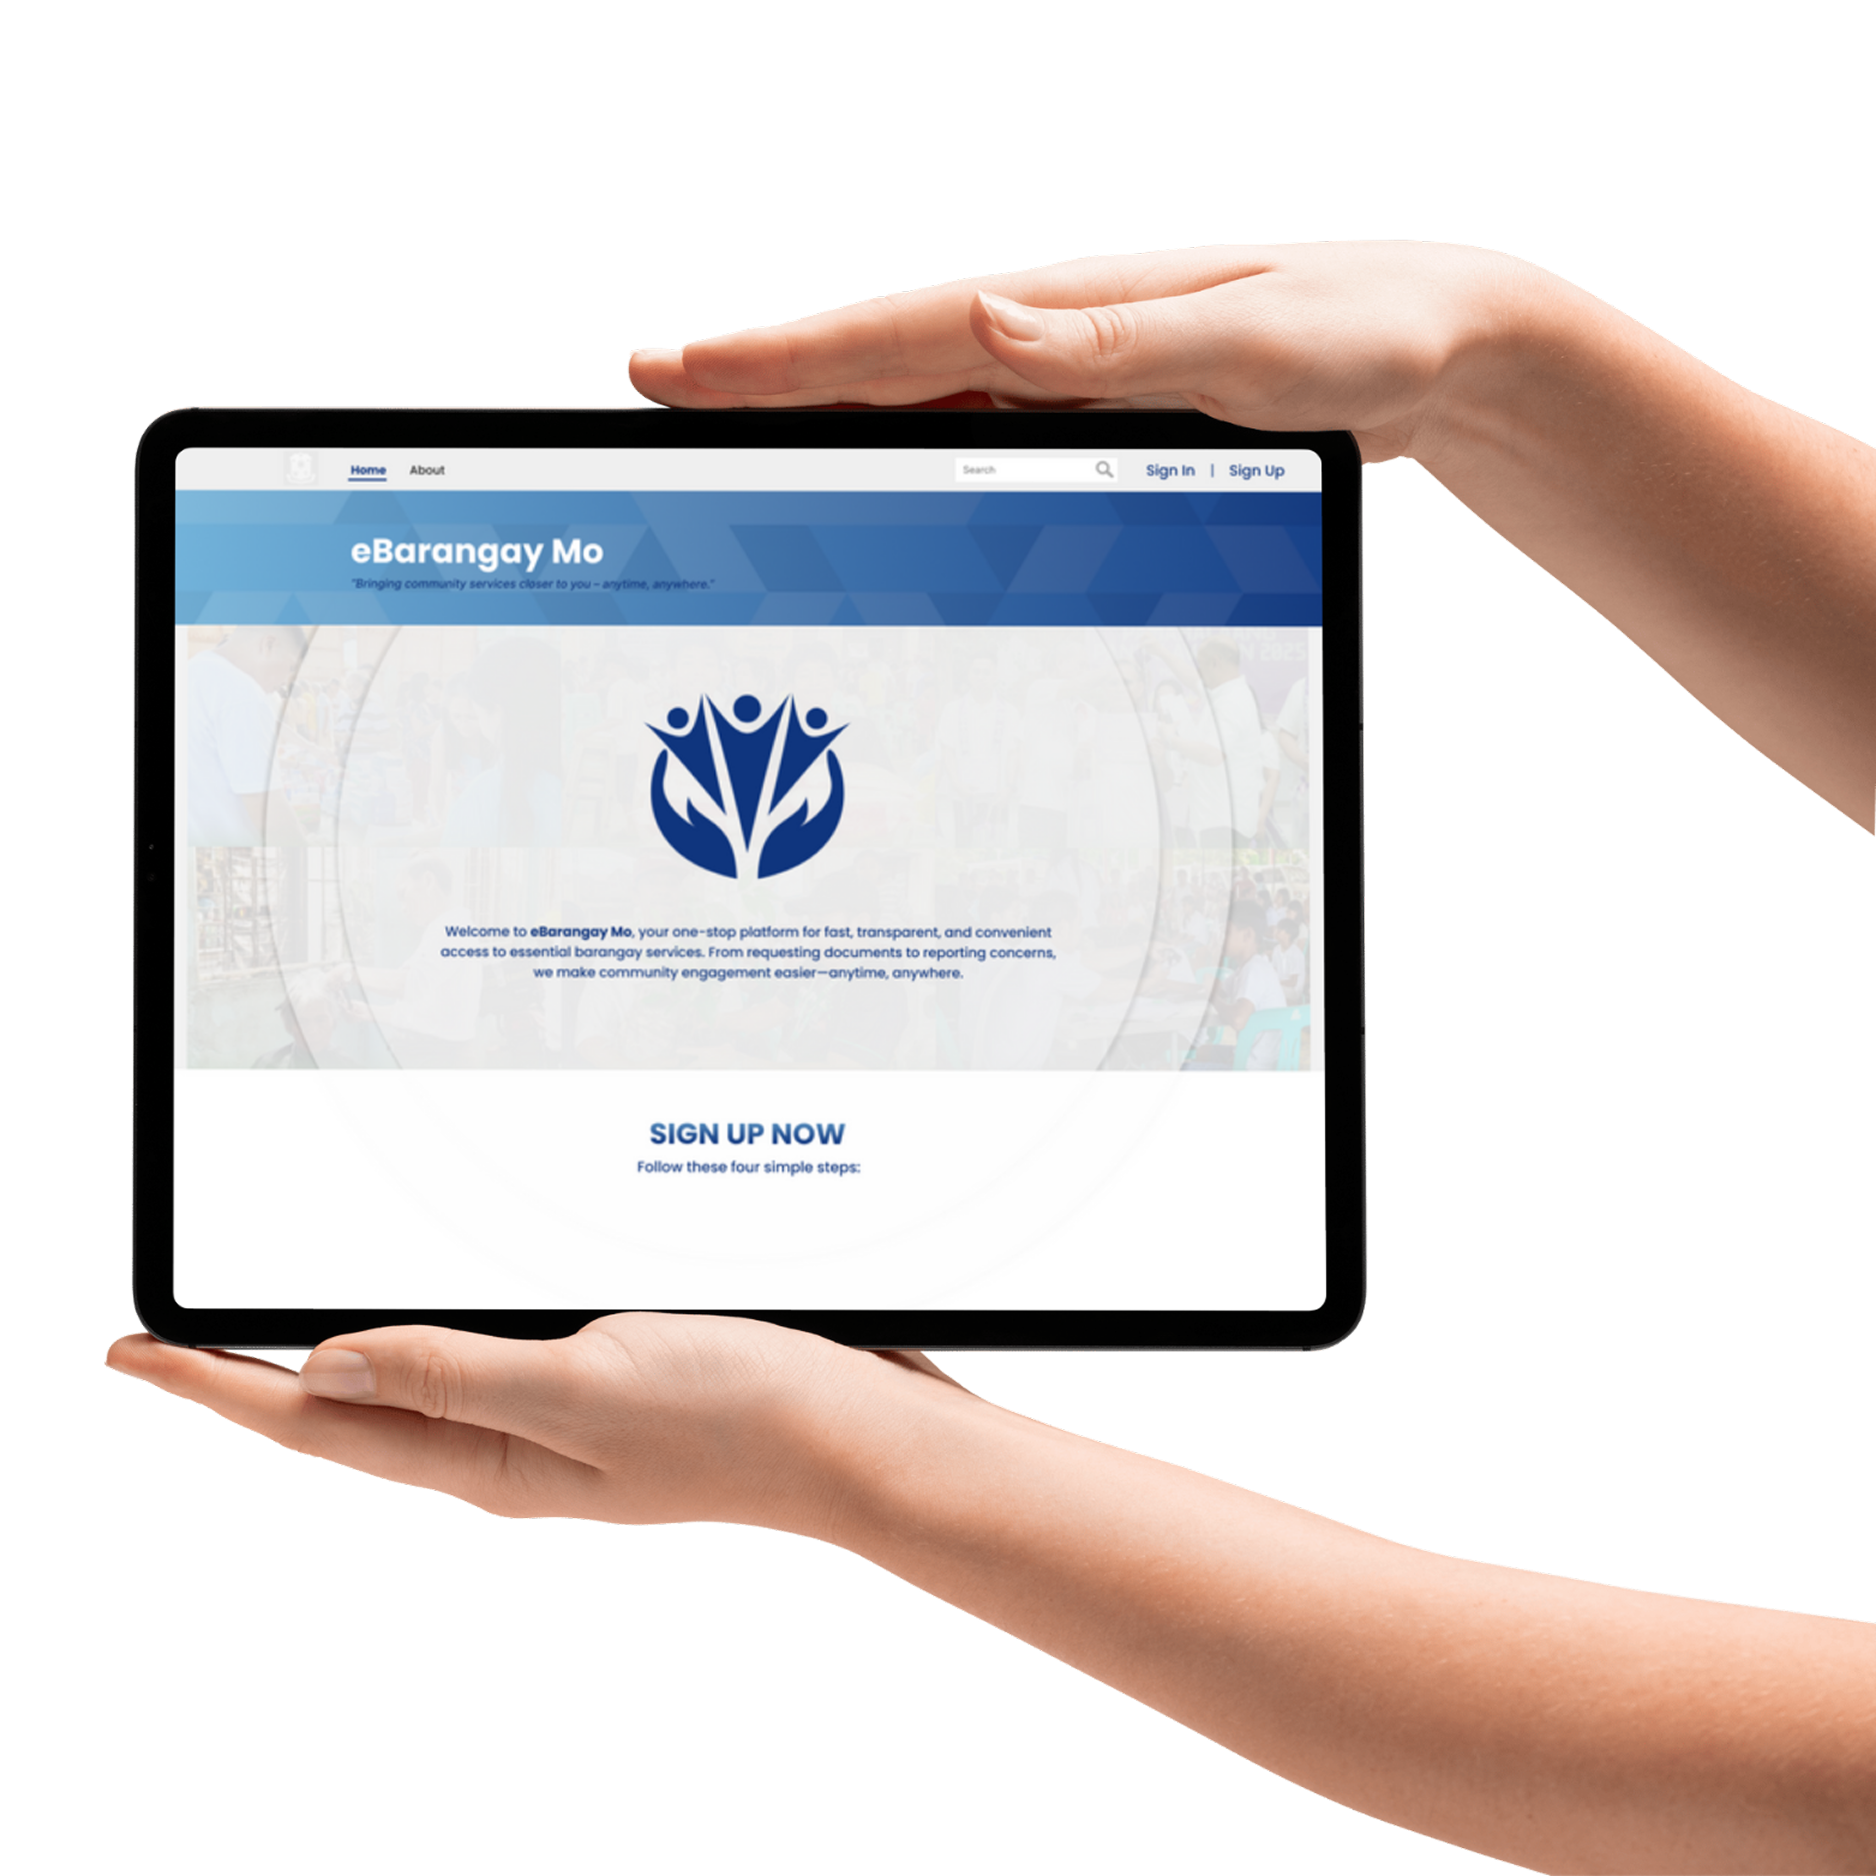
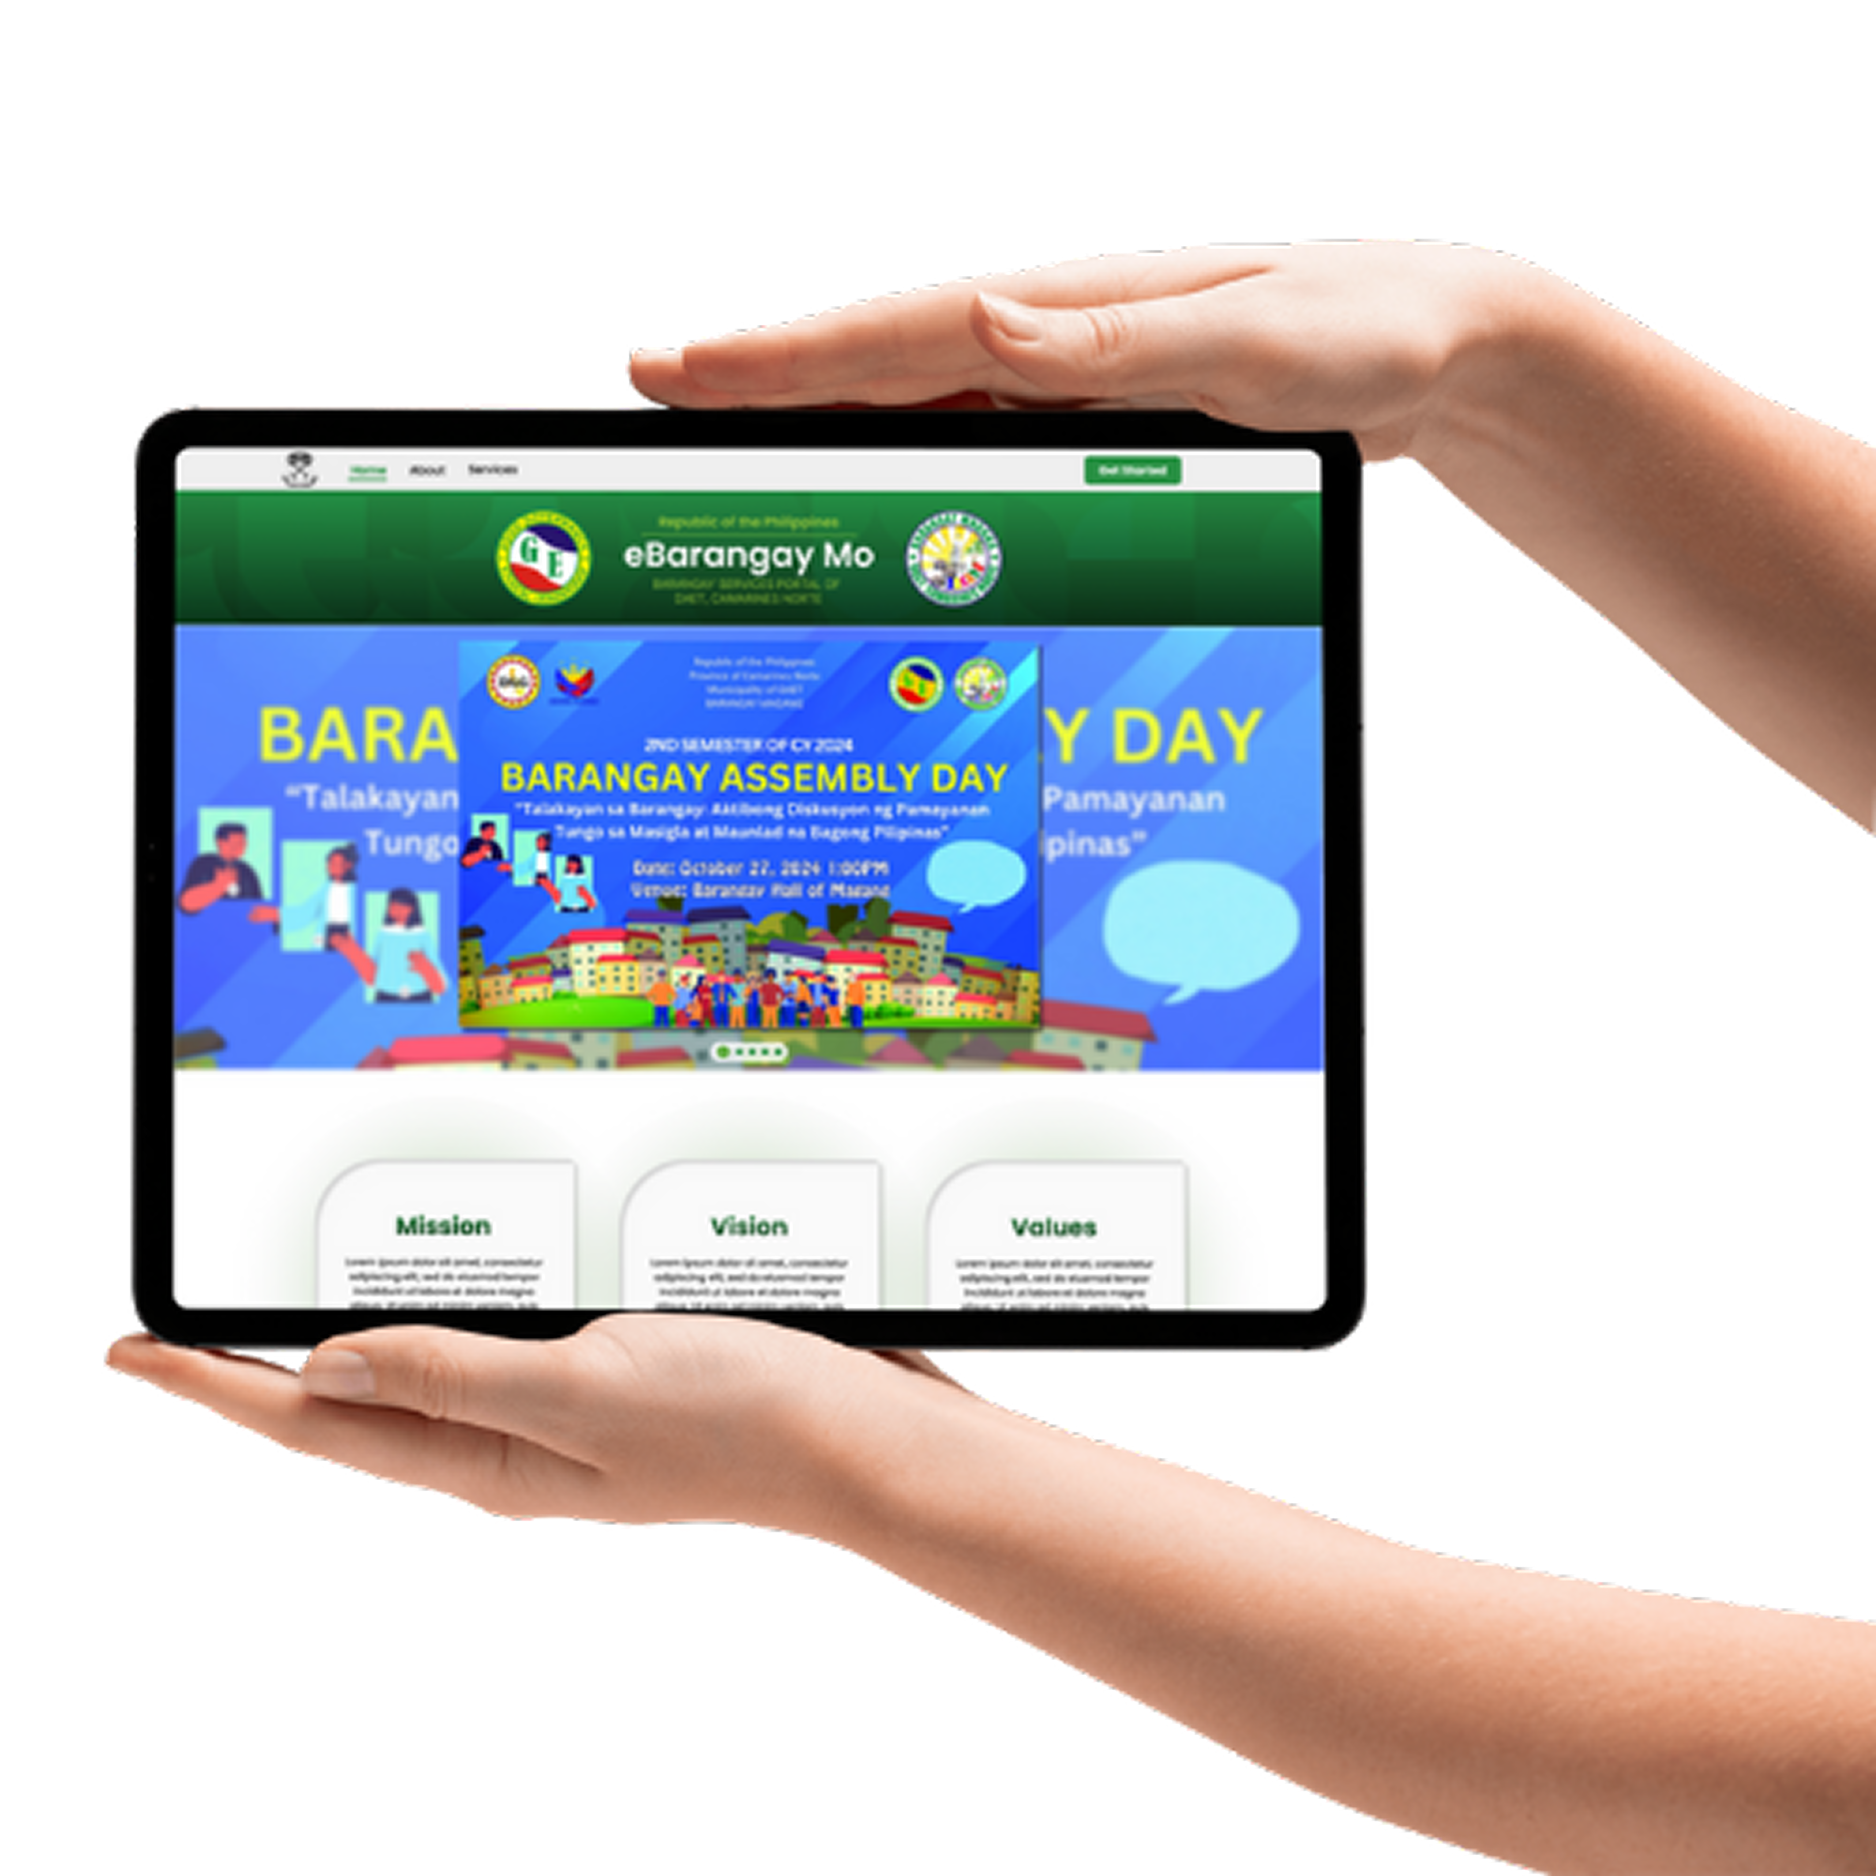
And our time on Earth was through

diff --git a/styles.css b/styles.css
@@ -71,11 +71,12 @@ body {
 
 .gradient-text {
     background: linear-gradient(to bottom, #2A9245, #0D2C15);
+    -webkit-background-clip: text;
     background-clip: text;
-    -webkit-text-fill-color: transparent;
+
 }
 
-.about-container {
+.mission-vision-values {
     background: #FFFFFF;
     padding: 50px 20px;
     border-radius: 12px;
@@ -252,6 +253,14 @@ body {
     padding: 10px;
 }
 
+.agency-footer h5 {
+    font-size: 15px;    
+}
+
+.quick-link {
+    font-size: 15px;    
+}
+
 .agency-footer .icon {
     font-size: 25px;
 }
@@ -277,3 +286,4 @@ body {
   background-color: #2A9245 ; 
   color: white ; 
 }
+

diff --git a/sidebar.css b/sidebar.css
@@ -1,0 +1,17 @@
+.sidebar {
+    height: 100vh;
+    background-color: #0D4019;
+    color: white;
+}
+.sidebar a {
+    color: white;
+    text-decoration: none;
+    padding: 10px 15px;
+    display: block;
+}
+.sidebar a:hover {
+    background-color: #116530;
+}
+.sidebar .active {
+    background-color: #116530;
+}

diff --git a/js/carousel.js b/js/carousel.js
@@ -15,3 +15,9 @@ document.addEventListener("DOMContentLoaded", function () {
     // Set the initial background
     updateBlurredBackground();
 });
+
+[...document.querySelectorAll('*')].forEach(el => {
+    if (el.scrollWidth > document.documentElement.clientWidth) {
+        console.log(el);
+    }
+});

diff --git a/signup.css b/signup.css
@@ -1,8 +1,8 @@
 /* Background Image */
-body {
+/* body {
     background: url('images/bg_nothover.png') no-repeat center center fixed;
     background-size: cover;
-}
+} */
 
 /* Form Container */
 .form-container {

diff --git a/signinup.css b/signinup.css
@@ -1,8 +1,8 @@
 /* Full height layout */
-html, body {
+/* html, body {
     height: 100%;
     margin: 0;
-}
+} */
 
 /* Split Container */
 .split-container {

diff --git a/index.php b/index.php
@@ -67,9 +67,9 @@ include 'includes/header.php';
     </div>
 </div>
 
-<!-- ABOUT US SECTION -->
+<!-- MISSION VISION VALUES SECTION -->
 <div class="container-fluid px-0">
-    <div class="about-container text-center">
+    <div class="mission-vision-values text-center">
         <div class="row g-4 mt-4 justify-content-center text-center">
             <div class="col-lg-3 col-md-5 col-sm-6 d-flex justify-content-center">
                 <div class="card-custom p-4">
@@ -192,7 +192,7 @@ include 'includes/header.php';
 </div>
 
 <!-- ABOUT SECTION -->
-<div class="container-fluid px-5 py-5">
+<div class="container-fluid px-0">
     <div class="row align-items-center">
         <!-- About Text -->
         <div class="col-md-6">
@@ -210,8 +210,7 @@ include 'includes/header.php';
         <!-- About Image -->
         <div class="col-md-6 text-center">
             <div class="about-image-container">
-                <img src="images/index_images/aboutimage.png" alt="eBarangay Mo Platform" 
-                    class="img-fluid">
+                <img src="images/index_images/AboutImage.png" alt="eBarangay Mo Platform" class="img-fluid">
             </div>
         </div>
     </div>
@@ -225,7 +224,7 @@ include 'includes/header.php';
     <div class="row text-center mt-4">
         <!-- Step 1 -->
         <div class="col-md-3">
-            <img src="images/step1.png" alt="Visit the Website" class="img-fluid mx-auto d-block w-75">
+            <img src="images/index_images/Step1.png" alt="Visit the Website" class="img-fluid mx-auto d-block w-75">
             <h4 class="mt-3 fw-bold">Visit the Website</h4>
             <hr class="underline">
             <p>Go to the eBarangay Mo website and click <strong>Sign Up</strong>.</p>
@@ -233,7 +232,7 @@ include 'includes/header.php';
 
         <!-- Step 2 -->
         <div class="col-md-3">
-            <img src="images/step2.png" alt="Register an Account" class="img-fluid mx-auto d-block w-75">
+            <img src="images/index_images/Step2.png" alt="Register an Account" class="img-fluid mx-auto d-block w-75">
             <h4 class="mt-3 fw-bold">Register an Account</h4>
             <hr class="underline">
             <p>Fill out the registration form with your required personal information.</p>
@@ -241,7 +240,7 @@ include 'includes/header.php';
 
         <!-- Step 3 -->
         <div class="col-md-3">
-            <img src="images/step3.png" alt="Wait for Verification" class="img-fluid mx-auto d-block w-75">
+            <img src="images/index_images/Step3.png" alt="Wait for Verification" class="img-fluid mx-auto d-block w-75">
             <h4 class="mt-3 fw-bold">Wait for Verification</h4>
             <hr class="underline">
             <p>Wait for the notification in verifying the account you created.</p>
@@ -249,7 +248,7 @@ include 'includes/header.php';
 
         <!-- Step 4 -->
         <div class="col-md-3">
-            <img src="images/step4.png" alt="Avail Barangay Services" class="img-fluid mx-auto d-block w-75">
+            <img src="images/index_images/Step4.png" alt="Avail Barangay Services" class="img-fluid mx-auto d-block w-75">
             <h4 class="mt-3 fw-bold">Avail Barangay Services</h4>
             <hr class="underline">
             <p>Once your account is verified, you can now submit a request for your desired service.</p>

diff --git a/includes/sidebar.php b/includes/sidebar.php
@@ -1,0 +1,33 @@
+<!DOCTYPE html>
+<html lang="en">
+<head>
+    <meta charset="UTF-8">
+    <meta name="viewport" content="width=device-width, initial-scale=1.0">
+    <title>Admin Panel - eBarangay Mo</title>
+    <link rel="stylesheet" href="sidebar.css">
+    <link href="https://cdn.jsdelivr.net/npm/bootstrap@5.3.0/dist/css/bootstrap.min.css" rel="stylesheet">
+    <link rel="stylesheet" href="https://cdnjs.cloudflare.com/ajax/libs/font-awesome/6.4.0/css/all.min.css">
+    <link rel="preconnect" href="https://fonts.googleapis.com">
+    <link rel="preconnect" href="https://fonts.gstatic.com" crossorigin>
+    <link href="https://fonts.googleapis.com/css2?family=Poppins:wght@100;200;300;400;500;600;700;800;900&display=swap" rel="stylesheet">
+    <script defer src="https://cdn.jsdelivr.net/npm/bootstrap@5.3.0/dist/js/bootstrap.bundle.min.js"></script>
+</head>
+<body>
+<div class="d-flex">
+        <nav class="sidebar d-flex flex-column p-3">
+            <h3 class="text-center">eBarangay Mo</h3>
+            <ul class="nav flex-column">
+                <li class="nav-item"><a href="#" class="nav-link active">Dashboard</a></li>
+                <li class="nav-item"><a href="#" class="nav-link">Request</a></li>
+                <li class="nav-item"><a href="#" class="nav-link">Blotter Record</a></li>
+                <li class="nav-item"><a href="#" class="nav-link">Residents</a></li>
+                <li class="nav-item"><a href="#" class="nav-link">eBarangay Mo Website</a></li>
+                <li class="nav-item"><a href="#" class="nav-link">Users</a></li>
+            </ul>
+            <div class="mt-auto text-center">
+                <button class="btn btn-danger w-100">Sign Out</button>
+            </div>
+        </nav>
+    </div>
+</body>
+</html>

diff --git a/includes/footer.php b/includes/footer.php
@@ -15,10 +15,10 @@
                 <div class="col">
                     <h5>Quick Links</h5>
                     <ul class="list-unstyled">
-                        <li><a href="#" class="text-decoration-none text-light">Downloads</a></li>
-                        <li><a href="#" class="text-decoration-none text-light">Archives</a></li>
-                        <li><a href="#" class="text-decoration-none text-light">FAQs</a></li>
-                        <li><a href="#" class="text-decoration-none text-light">Site Map</a></li>
+                        <li><a href="#" class="text-decoration-none text-light quick-link">Downloads</a></li>
+                        <li><a href="#" class="text-decoration-none text-light quick-link">Archives</a></li>
+                        <li><a href="#" class="text-decoration-none text-light quick-link">FAQs</a></li>
+                        <li><a href="#" class="text-decoration-none text-light quick-link">Site Map</a></li>
                     </ul>
                 </div>
                 <div class="col">

diff --git a/adminpanel.php b/adminpanel.php
@@ -1,0 +1,6 @@
+<?php 
+$page = 'admin'; 
+include 'includes/sidebar.php';
+?>
+
+
